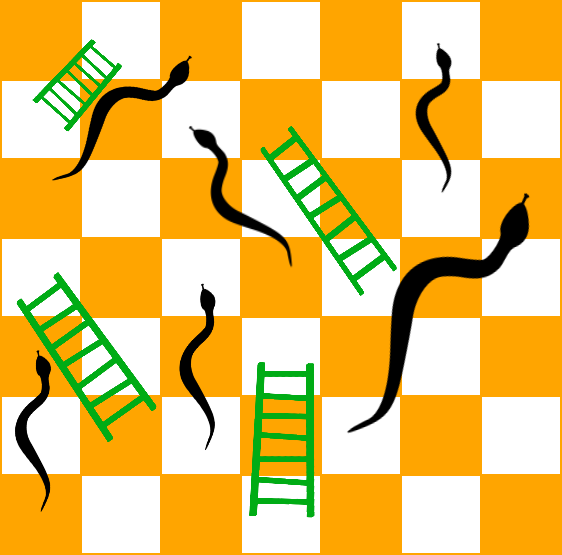
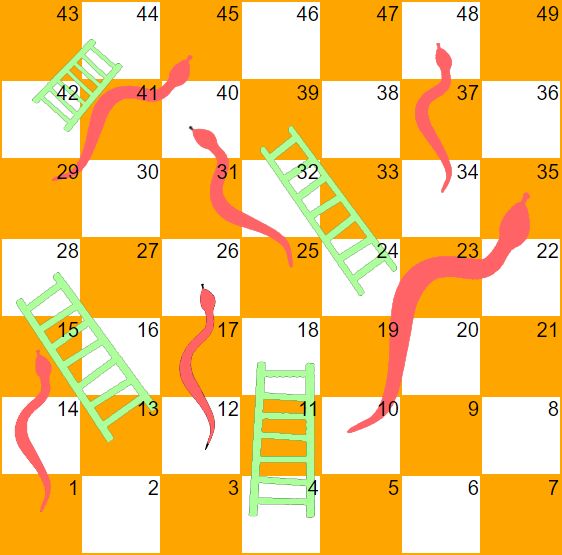
boyyy

diff --git a/public/game.html b/public/game.html
@@ -72,67 +72,70 @@
     <section>
       <table id='board'>
         <tr>
-            <td id="43" class="board">43</td>
-            <td id="44" class="board">44</td>
-            <td id="45" class="board">45</td>
-            <td id="46" class="board">46</td>
-            <td id="47" class="board">47</td>
-            <td id="48" class="board">48</td>
-            <td id="49" class="board">49</td>
+            <td id="43" class="board"></td>
+            <td id="44" class="board"></td>
+            <td id="45" class="board"></td>
+            <td id="46" class="board"></td>
+            <td id="47" class="board"></td>
+            <td id="48" class="board"></td>
+            <td id="49" class="board"></td>
         </tr>
         <tr>
-            <td id="42" class="board">42</td>
-            <td id="41" class="board">41</td>
-            <td id="40" class="board">40</td>
-            <td id="39" class="board">39</td>
-            <td id="38" class="board">38</td>
-            <td id="37" class="board">37</td>
-            <td id="36" class="board">36</td>
+            <td id="42" class="board"></td>
+            <td id="41" class="board"></td>
+            <td id="40" class="board"></td>
+            <td id="39" class="board"></td>
+            <td id="38" class="board"></td>
+            <td id="37" class="board"></td>
+            <td id="36" class="board"></td>
         </tr>
         <tr>
-            <td id="29" class="board">29</td>
-            <td id="30" class="board">30</td>
-            <td id="31" class="board">31</td>
-            <td id="32" class="board">32</td>
-            <td id="33" class="board">33</td>
-            <td id="34" class="board">34</td>
-            <td id="35" class="board">35</td>
+            <td id="29" class="board"></td>
+            <td id="30" class="board"></td>
+            <td id="31" class="board"></td>
+            <td id="32" class="board"></td>
+            <td id="33" class="board"></td>
+            <td id="34" class="board"></td>
+            <td id="35" class="board"></td>
         </tr>
         <tr>
-            <td id="28" class="board">28</td>
-            <td id="27" class="board">27</td>
-            <td id="26" class="board">26</td>
-            <td id="25" class="board">25</td>
-            <td id="24" class="board">24</td>
-            <td id="23" class="board">23</td>
-            <td id="22" class="board">22</td>
+            <td id="28" class="board"></td>
+            <td id="27" class="board"></td>
+            <td id="26" class="board"></td>
+            <td id="25" class="board"></td>
+            <td id="24" class="board"></td>
+            <td id="23" class="board"></td>
+            <td id="22" class="board"></td>
         </tr>
         <tr>
-            <td id="15" class="board">15</td>
-            <td id="16" class="board">16</td>
-            <td id="17" class="board">17</td>
-            <td id="18" class="board">18</td>
-            <td id="19" class="board">19</td>
-            <td id="20" class="board">20</td>
-            <td id="21" class="board">21</td>
+            <td id="15" class="board"></td>
+            <td id="16" class="board"></td>
+            <td id="17" class="board"></td>
+            <td id="18" class="board"></td>
+            <td id="19" class="board"></td>
+            <td id="20" class="board"></td>
+            <td id="21" class="board"></td>
         </tr>
         <tr>
-            <td id="14" class="board">14</td>
-            <td id="13" class="board">13</td>
-            <td id="12" class="board">12</td>
-            <td id="11" class="board">11</td>
-            <td id="10" class="board">10</td>
-            <td id="9" class="board">9</td>
-            <td id="8" class="board">8</td>
+            <td id="14" class="board"></td>
+            <td id="13" class="board"></td>
+            <td id="12" class="board"></td>
+            <td id="11" class="board"></td>
+            <td id="10" class="board"></td>
+            <td id="9" class="board"></td>
+            <td id="8" class="board"></td>
         </tr>
         <tr>
-            <td id="1" class="board">1</td>
-            <td id="2" class="board">2</td>
-            <td id="3" class="board">3</td>
-            <td id="4" class="board">4</td>
-            <td id="5" class="board">5</td>
-            <td id="6" class="board">6</td>
-            <td id="7" class="board">7</td>
+            <td id="1" class="board">
+                <img src="images/playerRed.png" alt="player 1" height="30" width="20">
+                <img src="images/playerGreen.png" alt="player 2" height="30" width="20">
+            </td>
+            <td id="2" class="board"></td>
+            <td id="3" class="board"></td>
+            <td id="4" class="board"></td>
+            <td id="5" class="board"></td>
+            <td id="6" class="board"></td>
+            <td id="7" class="board"></td>
       </table>
     </section>
 
@@ -145,12 +148,6 @@
       </div>
       <div class="GG">
           <a href="splash.html"><button><font size="10" color="red">GG</font></button></a>
-      </div>
-      <div class="player1">
-          <img src="images/playerRed.png" alt="player 1" height="30" width="20">
-      </div>
-      <div class="player2">
-          <img src="images/playerGreen.png" alt="player 2" height="30" width="20">
       </div>
     </section>
 </body>

diff --git a/app.js b/app.js
@@ -50,7 +50,7 @@ wss.on("connection", function(ws) {
           case "CREATE_GAME":
             gameID = Math.random().toString(36).substr(2, 9);
 
-            game = {status: "WAITING", nPlayers: data.players, players:[]};
+            game = {status: "WAITING", nPlayers: data.players, players:[], turn: 0};
             games[gameID] = game;
 
             game.players[0] = {id: ws.id, name: data.name};
@@ -94,6 +94,15 @@ wss.on("connection", function(ws) {
                 }
               }
             break;
+          
+          case "DICEROLL":
+              gameID = ws.gameID;
+              game = games[gameID];
+
+              if(game.players[game.turn].id == ws.id){  //is it the players turn
+                console.log("real shit");
+              }
+              break;
         }
     });
 

diff --git a/public/stylesheets/game.css b/public/stylesheets/game.css
@@ -1,7 +1,6 @@
 html *
 {
-   color: #000;
-   text-shadow: -1px 0 white, 0 1px white, 1px 0 white, 0 -1px white;
+   color: black;
    font-family: Arial !important;
 }
 .GG {
@@ -26,16 +25,14 @@ html *
 table {
 	margin: 0 auto;
   /*background: orange;*/
-  text-align: right;
-  color:red;
+  text-align: center;
   background-image: url("../images/board.png");
   background-size: contain;
 }
 td {  
-    vertical-align: top;
     width: 60px; height: 60px;
-    vertical-align: top;
+    vertical-align: bottom;
 }
-tr:nth-child(odd) td:nth-child(even), tr:nth-child(even) td:nth-child(odd) {
-	/*background: white;*/
-}
+/*tr:nth-child(odd) td:nth-child(even), tr:nth-child(even) td:nth-child(odd) {
+	color:#FFA500;
+}*/

diff --git a/public/splash.html b/public/splash.html
@@ -71,6 +71,13 @@
             socket.send(json);
         }
 
+        function rollDice(){
+            const message = {action: "DICEROLL"};
+            const json = JSON.stringify(message);
+            changeImg();
+            socket.send(json);
+        }
+
         // Create a random name
         $(document).ready(function(){
             const rNumber = Math.floor((Math.random() * 10000) + 1);

diff --git a/public/scripts/game.js b/public/scripts/game.js
@@ -81,6 +81,13 @@ function updateBoard(){
     }
 }
 
+function roll(){
+    const message = {action: "DICEROLL"};
+    const json = JSON.stringify(message);
+    changeImg();
+    socket.send(json);
+}
+
 // Get live statistics updates every second while in splash
 setInterval(function() {
     if(status=="SPLASH"){    

diff --git a/public/javascripts/ui-right.js b/public/javascripts/ui-right.js
@@ -9,6 +9,7 @@ function moveOneGridAfter49(){
 
 function move(numRolled){
     var before49 = true;
+    
     for(var i=0; i<numRolled; i++){
       if(before49){
         moveOneGridBelow49();
